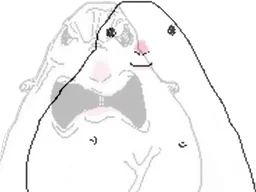
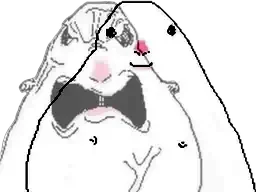
Clean up stickers and rewrite catalog descriptions
Remove cringe-teeth, dramatic-swoon, freezing, power-up and rage-scream.
Recrop lizard to a square, darken fading-away, and give every sticker a
detailed description of what it shows and when to use it.

diff --git a/STICKERS.md b/STICKERS.md
@@ -34,80 +34,75 @@ Send a sticker the way a friend does on WhatsApp: it just appears.
 
 <!-- One line per sticker: - file-name.ext — what it shows; when to use it -->
 
-Most stickers show the same character: a round white blob (hamster-like) meme drawing.
+Most stickers show the same character: a white, pear-shaped blob (kind of a meme hamster/rat) with a pink nose, two little arm lines and often buck teeth. Its face changes a lot from sticker to sticker, so read the description, not just the name.
 
 ### Blob: happy and nice
-- thumbs-up.webp — blob giving a big thumbs up; approval, "nice", "done", agreeing
-- happy-blush.webp — blushing, content smile; happy, pleased, "aww"
-- shy-blush.webp — shy, blushing; flattered by a compliment
-- flirty-lashes.webp — long lashes, cute smile; flirty, "you're sweet"
-- laughing.webp — big open-mouth laugh; lol, funny, happy
-- crazy-tongue.webp — derpy laugh with tongue out; crazy, very funny, silly
-- blep.webp — little tongue out; playful, teasing, cheeky
-- peace.webp — sneaky peace sign; hi, bye, cheeky
-- thank-you.webp — "Thank You" with hearts; thanks
-- holding-mini.webp — holding a tiny blob; wholesome, cute, "mini me"
-- rainbow-tears.webp — teary-eyed in front of a rainbow; touched, wholesome, "everything is fine now"
-- unicorn-ride.webp — riding a unicorn, overjoyed; celebrating, great news, magical
-- flex.webp — flexing an arm; strong, "nailed it", motivation
-- fairy-tutu.webp — tutu and star wand; magic, fabulous, "poof, fixed"
-- cats.webp — with two cats; cats, cuteness
+- thumbs-up.webp — big white cartoon hand giving a thumbs up next to a calm little smile; approval, "nice", "done", "got it", agreeing, quick yes
+- happy-blush.webp — big blush on both cheeks, wide content closed-mouth smile, eyes open; happy, pleased, "aww", something sweet happened
+- shy-blush.webp — heavy blush scribbles, squinty smiling eyes, hands fidgeting under the chin, faint heart floating nearby; flattered by a compliment, shy, "stoppp"
+- flirty-lashes.webp — long curly eyelashes, pink blush, tiny ":)" smile; flirty, charming, "you're sweet", playful compliment back
+- laughing.webp — squinting happy eyes, huge open mouth with two buck teeth; lol, laughing, something's genuinely funny
+- crazy-tongue.webp — scrunched-shut eyes, mouth stretched wide with a giant pink tongue hanging out; dying laughing, unhinged, chaos, way too funny
+- blep.webp — wide innocent eyes, plain face, little pink tongue poking straight out; playful, teasing, cheeky, "hehe"
+- peace.webp — smaller blob, one eye winking, tongue slightly out, tiny peace sign hand; hi, bye, cheeky, "later"
+- thank-you.webp — handwritten "Thank You" with a red heart above a blushing blob holding little hearts; thanks, appreciation
+- holding-mini.webp — blushing blob gently holding a tiny copy of itself; wholesome, cute, "mini me", something small and precious, babies
+- rainbow-tears.webp — glassy teary eyes and buck teeth in front of a bright rainbow, sun and butterflies; touched, emotional in a good way, wholesome, or ironic "everything is fine" coping
+- unicorn-ride.webp — riding a unicorn with a rainbow mane, huge open-mouth laugh, little sparkles; celebrating, great news, pure joy, magical
+- flex.webp — huge muscular human arm flexing, calm confident face; strong, "nailed it", gym, motivation, confidence
+- fairy-tutu.webp — pink tutu, tiny star wand, simple happy face with a buck tooth; magic, fabulous, "poof, fixed", sparkle
+- cats.webp — blob with a ":3"-style mouth and two cartoon cats (a calico and a gray one) in front; cats, cuteness, pets
 
 ### Blob: thinking and working
-- typing.webp — glasses, typing on a keyboard; working, coding, "on it"
-- actually.webp — nerd glasses, finger raised; "actually...", fun fact, explaining
-- rubiks-genius.webp — glasses, solving a Rubik's cube; clever, figuring it out
-- detective.webp — magnifying glass; investigating, looking into it
-- confused.webp — tilted head, worried eyes; confused, "huh?"
-- eyebrow-raise.webp — one eyebrow raised; suspicious, skeptical, "hmm"
-- side-eye.webp — huge zoomed side eye; side eye, "I saw that"
-- nervous-fingers.webp — fingertips tapping together; nervous, hopeful, waiting
-- evil-scheme.webp — evil grin, hands together; scheming, plotting, having a plan
-- smug.webp — wide smug grin; smug, proud, "told you"
+- typing.webp — reading glasses low on the nose, focused face, typing on a little keyboard; working, coding, "on it", busy
+- actually.webp — big black nerd glasses, buck-tooth grin, tiny hand raised like making a point; "actually...", fun fact, nerding out, correcting something
+- rubiks-genius.webp — glasses, calm focused face, holding a half-solved Rubik's cube; clever, figuring it out, puzzle solved, big brain
+- detective.webp — holding up a magnifying glass, squinting suspicious eyes, pursed lips; investigating, looking into it, debugging, "let me check"
+- confused.webp — blob turned sideways, one eye showing, squiggly raised brows, tiny mouth; confused, "huh?", "wait what", lost
+- eyebrow-raise.webp — one big dramatically arched eyebrow, other eye narrowed, small mouth; skeptical, "hmm", "are you sure about that"
+- side-eye.webp — blob turned away, one big eye glancing sideways, tiny mouth; side eye, "I saw that", sus, judging quietly
+- nervous-fingers.webp — worried brows, fingers nervously laced and tapping in front of the face; nervous, hopeful, "please work", waiting anxiously
+- evil-scheme.webp — dark gray shading over the face, evil slanted brows, creepy wide grin, fingertips pressed together; scheming, plotting, villain mode, mischievous plan
+- smug.webp — half-closed eyes, huge wide closed-mouth grin; smug, proud, "told you", feeling yourself
 
 ### Blob: shocked, mad and sad
-- gasp.webp — wide-eyed gasp; surprised, "omg"
-- jaw-drop.webp — mouth hanging open way down; speechless, stunned
-- horrified.webp — shocked open mouth; horrified, "noooo"
-- skeleton-shock.webp — electrocuted, skeleton showing; extremely shocked
-- rage-scream.webp — screaming with flames behind; angry, furious, or extremely hyped
-- power-up.webp — spiky green hair, screaming; powering up, going all out
-- breaking-chains.webp — screaming while breaking chains; freedom, finally done, unleashed
-- cringe-teeth.webp — clenched teeth grimace; awkward, cringe, yikes
-- intense-stare.webp — intense, serious face; "bruh", disgusted, dead serious
-- unimpressed.webp — squinting, pursed lips; unimpressed, doubtful
-- deadpan.webp — blank, deadpan face; "really?", no reaction
-- dramatic-swoon.webp — hand on forehead, swooning; exhausted, drama, "ugh"
-- sad-pout.webp — sad little pout; disappointed, sad
-- fading-away.webp — blob fading out; disappearing, leaving, "I'm out"
-- rip.webp — in a coffin with flowers; "I'm dead" (laughing), RIP, it's over
-- lurking.webp — peeking from the shadows; lurking, watching, sneaky
+- gasp.webp — huge round eyes, hands on its head, mouth in a big lipped "O"; surprised, "omg", scandalized, juicy gossip
+- jaw-drop.webp — eyes squeezed shut, mouth hanging down into a giant long black hole; speechless, stunned, mind blown
+- horrified.webp — wrinkled panicked brows, mouth open in a big black wailing shape, hand at the face; horrified, "noooo", despair (in a jokey way)
+- skeleton-shock.webp — black body with its skeleton showing, yellow electric burst behind, screaming; extremely shocked, electrocuted, "WHAT"
+- breaking-chains.webp — broken chain pieces flying around its head, huge open black mouth yelling; freedom, finally done, unleashed, hyped
+- intense-stare.webp — angry wrinkled brows, one raised, twisted lips, very detailed realistic face; "bruh", dead serious, disgusted, "say that again"
+- unimpressed.webp — wrinkled forehead, raised brows, small pursed lips; unimpressed, doubtful, "ok and?", not buying it
+- deadpan.webp — small blob with a flat human meme face, closed flat eyes, tiny mouth; deadpan, "really?", no reaction, "bruh" but calm
+- sad-pout.webp — droopy sad brows, wobbly frowning mouth; sad, disappointed, about to cry (jokingly), "aw man"
+- fading-away.webp — ghostly see-through double image, a horrified screaming blob overlapping a calm one, like a soul leaving the body; "I'm out", disappearing, mentally leaving, so shocked my soul left
+- rip.webp — lying in a brown coffin with X eyes, holding a little bouquet; "I'm dead" (from laughing), RIP, it's over, gone
+- lurking.webp — half the blob hidden in black shadow with speed lines, one eye peeking out; lurking, watching, creeping in, sneaky
 
 ### Blob: food, drinks and chilling
-- coffee-tired.webp — tired eyes, holding coffee; morning, need coffee, tired
-- soda.webp — cola cap, holding soda cans; drinks, thirsty, cheers
-- lollipop.webp — propeller hat, licking a lollipop; sweets, childlike joy
-- pizza-eating.webp — eating a slice of pizza; food, hungry, eating
-- pizza-costume.webp — dressed as a pizza slice; pizza, food, silly
-- cozy-movie-night.webp — blanket, popcorn and laptop; chilling, movie night, relaxing
-- good-night.webp — pajamas, nightcap and candle; good night, sleepy, bedtime
-- money-rain.webp — sunglasses, money raining down; rich, payday, "deal with it"
-- cash-hands.webp — smirking, holding cash; money, profit, got paid
-- bucket-hat.webp — wearing a bucket hat; casual, chill
+- coffee-tired.webp — droopy baggy eyes, frown, holding a big black mug with both hands; morning, need coffee, tired, long day
+- soda.webp — red Coca-Cola cap, huge buck-tooth grin, Dr Pepper and Coke cans; drinks, thirsty, cheers, hyped about snacks
+- lollipop.webp — rainbow propeller beanie, licking a rainbow swirl lollipop; sweets, childlike joy, carefree
+- pizza-eating.webp — holding a pepperoni slice up to its mouth; food, hungry, eating, snack time
+- pizza-costume.webp — face poking out of a big pepperoni pizza slice costume; pizza, food, silly, dressed up
+- cozy-movie-night.webp — wrapped in a pink checkered blanket, blushing with happy closed eyes, popcorn and laptop, little heart; chilling, comfy, movie night, self-care
+- good-night.webp — blue striped pajamas and nightcap, holding a lit candle; good night, sleepy, bedtime
+- money-rain.webp — pixel "deal with it" sunglasses, black pompadour hair, little mustache smirk, dollar bills raining down; rich, payday, flexing money, "deal with it"
+- cash-hands.webp — half-closed sly eyes, sideways smirk, green dollar bills in both hands; got paid, money talk, shady deal, "heh"
+- bucket-hat.webp — green bucket hat, blank neutral front-facing stare, straight mouth; casual, chill, unbothered, "anyway"
 
 ### Blob: costumes and seasons
-- batman.webp — bat costume and cape; hero, "I'll handle it"
-- batman-nervous.webp — bat costume, sweating; nervous hero, "uh oh"
-- spiderman.webp — spider costume; hero, spider jokes
-- winter-cozy.webp — knit hat, jacket and mittens; cold weather, bundled up, winter
-- freezing.webp — blue and frozen in snow; freezing cold
-- snowman.webp — blob as a snowman; winter, snow
-- santa-cocoa.webp — Santa hat, cup of cocoa; Christmas, holidays
-- elf.webp — elf costume; Christmas, holidays
-- grinch.webp — green and grumpy, Christmas sweater; grumpy, hating something festive
-- pumpkin.webp — blob as a jack-o'-lantern; Halloween, autumn
+- batman.webp — bat mask and yellow cape, calm serious face, little buck tooth; hero mode, "I'll handle it", taking charge
+- batman-nervous.webp — same bat mask and cape, but teary eyes and a sweat drop; nervous hero, "uh oh", in over my head
+- spiderman.webp — full red spider suit with web lines, spider logo and blue arms; hero, spider jokes
+- winter-cozy.webp — pink knit beanie, red puffer jacket, yellow mittens, rosy cheeks and a runny nose; cold weather, freezing, bundled up, winter
+- snowman.webp — blob as a snowman with a carrot nose, red scarf and stick arms; winter, snow
+- santa-cocoa.webp — red Santa hat, gentle smile, holding a mug of cocoa; Christmas, cozy holidays
+- elf.webp — striped elf hat, pointy ears, red and green jester outfit with a belt; Christmas, holiday helper, "on it" in December
+- grinch.webp — green grumpy face with a sly grin, red fur-trimmed Santa outfit; grumpy, hating something festive, petty, mischievous
+- pumpkin.webp — blob as an orange jack-o'-lantern with a carved grin and a stem on top; Halloween, autumn, spooky
 
 ### Real animals
-- dog-stare.webp — Bernese mountain dog staring straight ahead; "looking at you", waiting, judging
-- dog-side-glance.webp — Bernese mountain dog glancing sideways; side eye, suspicious, unsure
-- lizard.webp — a real lizard held in a hand; reptiles, lizards, "look at this guy"
+- dog-stare.webp — Bernese mountain dog staring straight into the camera, mouth a little open; "looking at you", waiting, judging, blank "hm?"
+- dog-side-glance.webp — Bernese mountain dog glancing sideways with the whites of its eyes showing; awkward, side eye, nervous, "uh..."
+- lizard.webp — real photo of a speckled lizard held in a hand, looking up at the camera; reptiles, lizards, "look at this guy"
